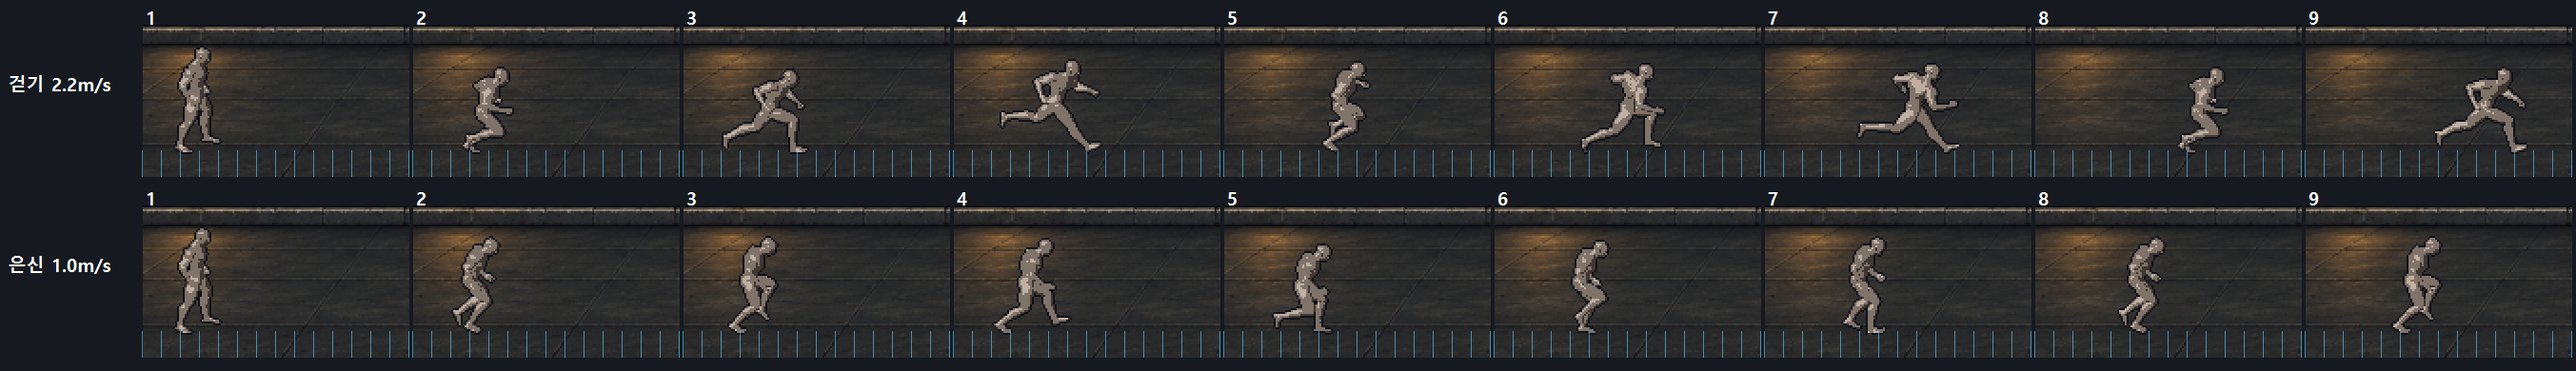
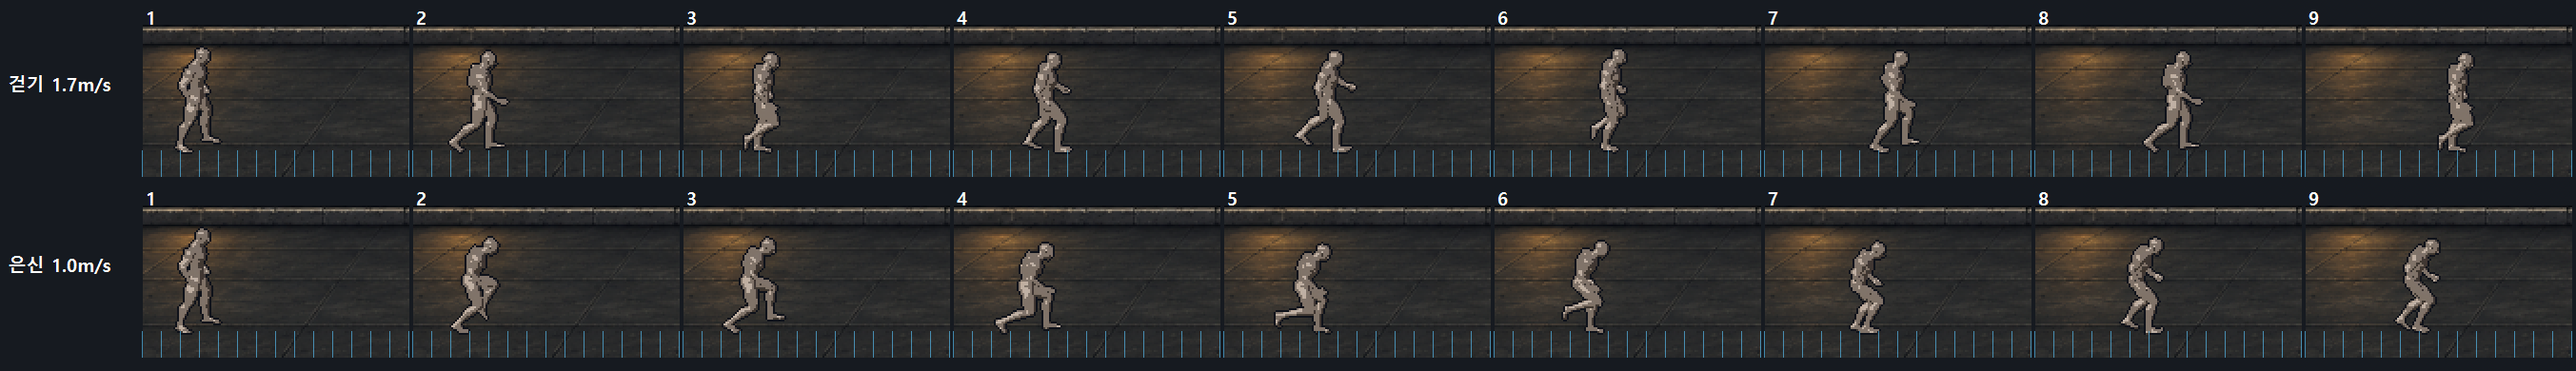
걷기 동작과 이동 거리를 다시 맞춤: 보폭 측정 오류 수정
- 보폭을 땅에 닿은 발이 미끄러지는 속도로 다시 잼(가볍게 뛰기는 실제 약 6m/s 달리기였음)
- 걷기를 Walk_Loop로 되돌려 1.7m/s, 은신 1.0m/s, 전투 2.0m/s, 피폭체 추격 비율 맞춤
- 그림 축척(30px/m)과 게임 축척(32px/m) 차이를 SheetLook에서 보정
- 렌더 스크립트가 소수 프레임까지 고르게 찍고, 걷기·은신을 12칸으로
- 피드백 문서에 원인과 점검표 항목(움직임은 숫자로, 측정 방법 점검) 추가, PRD·PLAN·작업 기준 기록

diff --git a/src/character_look.py b/src/character_look.py
@@ -22,6 +22,8 @@ from pathlib import Path
 
 import pico2d
 
+from nav import PX_PER_M_X
+
 
 LOOPING = {"idle", "walk", "sneak", "sneak_idle"}
 # A pose a character's sheets lack falls back to a close one: (pose, fixed frame or None).
@@ -30,6 +32,7 @@ FALLBACK = {"sneak_idle": ("sneak", 0)}
 
 class SheetLook:
     CELL_W, CELL_H = 96, 64
+    SPRITE_PX_PER_M = 54 / 1.8       # render scale: a 1.8 m person is 54 px (CHARACTER_SPEC.md)
     FEET_FROM_BOTTOM = 4
     # Seconds per frame for looping poses.
     # Seconds per frame for looping poses that are not driven by distance (breathing idles).
@@ -51,7 +54,10 @@ class SheetLook:
         count = self.frame_count(pose)
         stride = self.meta.get(pose, {}).get("stride_m")
         if stride and distance is not None:
-            return int(distance / stride * count) % count
+            # stride_m is measured on the model; the world uses PX_PER_M_X, the sheet its own
+            # scale, so compare in pixels to keep the planted foot exactly still.
+            cycles = distance * PX_PER_M_X / (stride * self.SPRITE_PX_PER_M)
+            return int(cycles * count) % count
         if pose in LOOPING:
             return int(time / self.FRAME_TIME.get(pose, 0.12)) % count
         impact = self.meta.get(pose, {}).get("impact")

diff --git a/tools/blender/render_sprites.py b/tools/blender/render_sprites.py
@@ -200,7 +200,8 @@ def frames_of(action, count, frame_range=None):
         step = (end - start) / count                     # loop: the last frame equals the first
     else:
         step = (end - start) / (count - 1)               # one-shot or a cut: keep the final pose
-    return [round(start + i * step) for i in range(count)]
+    # Keep fractions: evenly spaced cells matter for walk cycles (the feet stay planted).
+    return [round(start + i * step, 3) for i in range(count)]
 
 
 def assign_action(armature, action, blend=None):
@@ -303,7 +304,7 @@ def render_sheet(scene, armature, segments, out_dir, tmp_dir, sheet_name, args):
             action, _, blend, _ = segments[seg_index]
             assign_action(armature, action, blend)
             current = seg_index
-        scene.frame_set(frame)
+        scene.frame_set(int(frame), subframe=frame - int(frame))
         path = os.path.join(tmp_dir, f"{sheet_name}_{index}.png")
         scene.render.filepath = path
         bpy.ops.render.render(write_still=True)

diff --git a/src/player.py b/src/player.py
@@ -17,9 +17,10 @@ from nav import PX_PER_M_X, metres
 
 
 PLAYER_HALF_SIZE = 11
-# The walk sheet is a light jog covering 1.48 m per leg cycle and the sneak sheet 0.65 m,
-# so these speeds give about 1.5 leg cycles per second with the feet planted.
-WALK_SPEED_M = 2.2           # metres per second
+# Leg cycles cover 1.30 m (walk) and 1.09 m (sneak) of ground, measured from how fast the
+# planted foot slides back in Blender. At these speeds the legs play 1.7x and 1.2x as fast
+# as authored: a brisk walk and a careful sneak, both still natural, feet planted.
+WALK_SPEED_M = 1.7           # metres per second
 SNEAK_SPEED_M = 1.0
 DASH_SPEED = 340
 DASH_DURATION = 0.14

diff --git a/src/zombie.py b/src/zombie.py
@@ -18,7 +18,7 @@ from tile_map import WRECK_HALF_DEPTH, WRECK_LEFT, WRECK_RIGHT, WRECK_Y
 
 ZOMBIE_RADIUS = 10
 ALERT_DISTANCE = 128
-CHASE_SPEED = 49              # px/s, about 70% of the player's walk (2.2 m/s = 70 px/s)
+CHASE_SPEED = 38              # px/s, about 70% of the player's walk (1.7 m/s = 54 px/s)
 ATTACK_REACH = 27
 ATTACK_DEPTH = 15
 WINDUP_TIME = 0.38

diff --git a/src/combat.py b/src/combat.py
@@ -13,7 +13,7 @@ from zombie import STRIKE_TIME, WINDUP_TIME
 
 
 BANNER_TIME = 1.4
-MOVE_SPEED_M = 3.0          # metres per second while walking (legs follow the distance)
+MOVE_SPEED_M = 2.0          # metres per second while walking (legs follow the distance)
 ENEMY_PAUSE = 0.45
 SKIP_PAUSE = 0.9
 POPUP_TIME = 1.3

diff --git a/assets/characters/CHARACTER_WORKFLOW.md b/assets/characters/CHARACTER_WORKFLOW.md
@@ -89,7 +89,7 @@
      --anim-file "assets/source3d/quaternius_animation_library/Unreal-Godot/UAL1_Standard.glb" \
      --out assets/characters/base \
      --map idle=Idle_Loop walk=Walk_Loop "sneak=Walk_Loop+Crouch_Idle_Loop*0.3" hurt=Hit_Chest down=Death01 pickup=Fixing_Kneeling@0-20 \
-     --frames-for idle=4 walk=8 sneak=6 swing=6 hurt=3 down=5 pickup=4 \
+     --frames-for idle=4 walk=12 sneak=12 swing=6 hurt=3 down=5 pickup=4 \
      --tilt 20 --head 1.15 --bulk 1.1 --legs 1.0 --shift-for down=16 \
      --flat 0.80,0.62,0.50 --bands 4 --outline
    ```
@@ -106,7 +106,7 @@
 4. **미리보기** — 보여 주기 전에 [그림 작업 피드백과 교훈](ART_FEEDBACK.md)의 점검표를 반드시 통과시킨다. `tools/sprites/preview_sheets.ps1 -SheetDir <시트 폴더> -Out assets/characters/previews/<대상>_v<번호>.png -Title <제목>`으로 만들고 사용자에게 보여 준다.
 5. **기준 확정** — 미리보기를 보고 렌더 설정을 조정해 4절에 적는다. 이후 모든 캐릭터는 같은 설정을 쓴다.
 6. **주인공 만들기** — 기본 몸에 방호복·후드·방독면·공기통·방망이를 입혀 `assets/characters/hero/`에 렌더한다.
-7. **게임 연결** — 실제 화면에서 크기·발 위치·재생 속도를 확인한다. 시트 폴더 이름만 넘기면 `src/character_look.py`의 `SheetLook`이 동작 이름(idle·walk·sneak·swing·pickup·hurt·down)과 시간으로 칸을 골라 그린다. 주인공은 `main.py`의 `PLAYER_LOOK`에 폴더 이름을 적는다. 반복 동작의 칸 시간은 `SheetLook.FRAME_TIME`, 초상화 자르기 영역은 `SheetLook.PORTRAIT`. 걷는 동작은 `look.json`에 다리 한 바퀴에 나아가는 거리(`stride_m`, 걷기(가볍게 뛰기) 1.48m·은신 0.65m)를 적는다. 그러면 시간 대신 유닛이 실제로 걸은 거리(`walk_distance`, m)로 칸을 골라 어떤 이동 속도에서도 발이 미끄러지지 않는다. 보폭은 Blender에서 발이 땅에 닿아 있는 동안 움직인 거리 ×2로 잰다. 공격 동작은 시트 폴더의 `look.json`에 맞는 칸을 적는다(예: `{"swing": {"impact": 3}}`). 공격 객체가 판정 시점(`contact`, 0~1)을 알려 주면, 그 전에는 준비 칸들이, 판정 순간에는 맞는 칸이(히트스톱 동안 유지), 그 뒤에는 나머지 칸이 재생된다. 새 무기나 적의 공격도 맞는 칸만 적으면 같은 방식으로 맞춰진다.
+7. **게임 연결** — 실제 화면에서 크기·발 위치·재생 속도를 확인한다. 시트 폴더 이름만 넘기면 `src/character_look.py`의 `SheetLook`이 동작 이름(idle·walk·sneak·swing·pickup·hurt·down)과 시간으로 칸을 골라 그린다. 주인공은 `main.py`의 `PLAYER_LOOK`에 폴더 이름을 적는다. 반복 동작의 칸 시간은 `SheetLook.FRAME_TIME`, 초상화 자르기 영역은 `SheetLook.PORTRAIT`. 걷는 동작은 `look.json`에 다리 한 바퀴에 나아가는 거리(`stride_m`, 모델 기준 m: 걷기 1.30m·은신 1.09m)를 적는다. 그러면 시간 대신 유닛이 실제로 걸은 거리(`walk_distance`, m)로 칸을 골라 어떤 이동 속도에서도 발이 미끄러지지 않는다. 보폭은 Blender에서 root를 고정하고 **땅에 닿은 발이 뒤로 미끄러지는 속도 × 한 바퀴 시간**으로 잰다(닿아 있는 동안 움직인 거리로 재면 공중 구간이 있는 뛰기에서 크게 틀림). 모델 기준 m라서 그림 축척(1m=30px)과 게임 축척(1m=32px) 차이는 `SheetLook`이 바꿔 준다. 칸은 소수 프레임까지 고르게 찍는다(정수로 반올림하면 칸 간격이 들쭉날쭉해 발이 흔들림). 공격 동작은 시트 폴더의 `look.json`에 맞는 칸을 적는다(예: `{"swing": {"impact": 3}}`). 공격 객체가 판정 시점(`contact`, 0~1)을 알려 주면, 그 전에는 준비 칸들이, 판정 순간에는 맞는 칸이(히트스톱 동안 유지), 그 뒤에는 나머지 칸이 재생된다. 새 무기나 적의 공격도 맞는 칸만 적으면 같은 방식으로 맞춰진다.
 8. **변형 캐릭터** — 1절 특색 기준표를 채워 설계한 뒤 같은 방식으로 렌더한다.
 9. **기록** — 매 단계 결과·결정·문제를 6절 작업 기록에 남기고 커밋한다.
 
@@ -115,8 +115,8 @@
 | 게임 동작 | 사용 애니메이션 | 칸 수 | 메모 |
 | --- | --- | --- | --- |
 | idle | `Idle_Loop` | 4 | |
-| walk | `Jog_Fwd_Loop` | 8 | 2026-11-11부터. 이동 2.2m/s에 걷기 동작(보폭 1.22m)을 쓰면 다리가 너무 바빠져, 보폭이 넓은(1.48m) 가볍게 뛰기로 바꿈 |
-| sneak | `Walk_Loop` 위에 `Crouch_Idle_Loop`를 30% 얹음(`Walk_Loop+Crouch_Idle_Loop*0.3`) | 6 | 2026-11-11 30%로 조정(처음 40%). 1.0m/s에 맞게 보폭을 넓힘(0.57→0.65m). 섞을 때는 COMBINE(회전을 곱해 더함)을 써야 함. 단순 평균(REPLACE)은 다리가 뒤로 뒤집힘 |
+| walk | `Walk_Loop` | 12 | 2026-11-11 가볍게 뛰기(`Jog_Fwd_Loop`)를 잠깐 썼으나 실제로 약 6m/s 달리기 동작이라 걷기로 되돌림. 1.7m/s에서 원본의 1.7배 속도로 재생. 8→12칸으로 늘려 땅에 닿은 발이 덜 밀림 |
+| sneak | `Walk_Loop` 위에 `Crouch_Idle_Loop`를 30% 얹음(`Walk_Loop+Crouch_Idle_Loop*0.3`) | 12 | 2026-11-11 30%로 조정(처음 40%), 6→12칸. 섞을 때는 COMBINE(회전을 곱해 더함)을 써야 함. 단순 평균(REPLACE)은 다리가 뒤로 뒤집힘 |
 | swing | `Sword_Regular_A` 6칸 + 복귀 `Sword_Regular_A_Rec` 7~23프레임 3칸 (두 번째 팩 UAL2) | 9 | 사용자 결정 "칼 베기 A + 맞는 칸 맞추기 + 복귀"(2026-11-11). 크게 숙였다가 베어 올린 뒤 제자리로 돌아옴. 맞는 칸은 4번째 칸(인덱스 3)이고 `base/look.json`에 적음. 이전 후보 나무 베기는 `TreeChopping_Loop@0-20` |
 | sneak_idle | `Idle_Loop` 위에 `Crouch_Idle_Loop`를 40% 얹음 | 4 | Shift만 누르고 서 있을 때. 시트가 없는 캐릭터는 `sneak` 첫 칸으로 대신함(`character_look.FALLBACK`) |
 | hurt | `Hit_Chest` | 3 | |
@@ -169,3 +169,4 @@
 | 2026-11-11 | 사용자 결정 "진행"(칼 베기 A + 맞는 칸 맞추기 + 복귀 동작) | 렌더 스크립트에 동작 이어 붙이기와 root 고정 추가. 공용 맞는 칸 방식(`look.json`의 `impact`, 공격의 `contact`) 추가. 판정 순간에 베는 칸이 보이고 히트스톱 동안 유지됨을 게임 화면으로 확인(`previews/swing_impact_ingame.png`). 중간에 점검표에서 "끝나면 30픽셀 앞에서 끝나 뒤로 튐"을 발견해 root 고정으로 해결. 남은 점: 빨간 궤적선은 예전 주인공 기준이라 따라 휘두르는 칸에서 몸 뒤쪽에 그려짐 |
 | 2026-11-11 | 사용자 지시 "애니메이션이 빠르다", 선택 "느긋한 걸음, 이동 속도도 낮춤" | 원본 동작 보폭 측정(걷기 한 바퀴 1.22m/1.33초, 은신 0.57m). 걷기 1.2m/s·은신 0.55m/s로 낮추고 다리를 걸은 거리로 재생. 서 있기 칸 시간 0.22→0.55초, 제자리 은신 0.6초. 휘두르기 판정 0.20→0.30초(준비 길게). 게임 화면 `previews/walk_feet_ingame.png`(파란 눈금으로 발이 땅에 붙는지 확인) |
 | 2026-11-11 | 사용자 지시 "이동 속도가 너무 느리다, 올리고 동작도 자연스럽게" | 걷기 2.2m/s·은신 1.0m/s·전투 3.0m/s. 걷기 시트를 `Jog_Fwd_Loop`로, 은신·제자리 은신을 웅크림 30%로 다시 렌더. 다리 한 바퀴 약 0.67초(원본의 1.4배)로 자연스러운 범위. 게임 화면 `previews/walk_feet_ingame.png` 갱신 |
+| 2026-11-11 | 사용자 지적 "동작은 뛰어가는 것처럼 크게 걷는데 이동 거리는 작다" | 원인: 보폭을 "땅에 닿아 있는 동안 움직인 거리"로 재서, 공중 구간이 긴 뛰기의 보폭(실제 한 바퀴 5.4m, 약 6m/s)을 1.48m로 잘못 잼. 땅에 닿은 발이 미끄러지는 속도로 다시 잼(걷기 1.30m, 은신 30% 1.09m). 걷기 동작으로 되돌리고 1.7m/s·은신 1.0m/s·전투 2.0m/s. 그림·게임 축척 차이(30/32px) 보정, 소수 프레임 렌더, 걷기·은신 12칸. 1/60초마다 땅에 닿은 발 픽셀을 재서 같은 자리 ±3px 안에 머무는 것을 확인 |

diff --git a/assets/characters/ART_FEEDBACK.md b/assets/characters/ART_FEEDBACK.md
@@ -16,6 +16,7 @@ Claude가 만든 그림(캐릭터, 배경, UI 등)을 사용자가 보고 이상
 | 2026-11-10 | 은신 = `Crouch_Fwd_Loop` | "은신 자세도 존나 이상함" | 무료 팩의 웅크려 걷기가 거의 쪼그려 앉은 깊은 자세. 큰 머리·굵은 몸까지 더해져 괴물처럼 보임 | v4b: 걷기 위에 웅크려 서기를 40% 얹어(COMBINE) 몸만 낮춘 걷기를 만듦. 사용자 선택 | 동작 이름만 보고 고르지 않는다. 게임에서 그 동작이 '무엇으로 읽혀야 하는지'와 비교한다(→ 3-4) |
 | 2026-11-11 | v4 휘두르기 = `Sword_Attack` | (점검표에서 스스로 발견) 팔을 양옆으로 벌리고 뛰어드는 칼 동작 | 1팩에 방망이 동작이 없음 | 두 번째 무료 팩에서 후보 5종을 렌더해 비교, 나무 베기(양손)로 교체 | 필요한 동작이 없으면 억지로 맞추지 말고 다른 무료 팩부터 찾는다(→ 3-4) |
 | 2026-11-11 | 칼 베기 A 적용 | "타격감이 좋으면 좋겠다" | 판정은 공격 시간 41%에 나는데 그때 그림은 아직 숙이는 칸이었음. 마지막 칸이 넓은 자세로 끝나 서 있기로 툭 바뀜. 원본 동작의 앞으로 나가는 이동 때문에 끝 위치가 30픽셀 앞 | 맞는 칸을 판정 순간에 맞추는 공용 방식, 복귀 동작 이어 붙이기, root 고정 | 타격감은 그림 자체보다 맞는 순간·여운·제자리 복귀가 맞아야 산다(→ 3-8, 3-9) |
+| 2026-11-11 | 걷기를 가볍게 뛰기 동작 + 2.2m/s로 바꿈 | "동작은 뛰어가는 것처럼 크게 걷는데 이동 거리는 작다" | 보폭 측정 방법이 틀림(땅에 닿은 동안 움직인 거리만 잼 → 공중 구간이 긴 뛰기를 1/4로 잼). 1/8초 간격 그림만 보고 "발이 붙어 있다"고 판단함 | 땅에 닿은 발의 미끄러지는 속도로 다시 재고, 1/60초마다 발 픽셀 위치를 숫자로 확인 | 움직임은 눈대중 대신 숫자로 확인한다. 측정 방법이 다른 동작 종류(걷기·뛰기)에도 맞는지 먼저 따진다(→ 3-11) |
 | 2026-11-10 | 위 결과들을 그대로 보여 줌 | "너 미적 감각이 떨어지니?" | 결과를 내 기준(칸 안에 들어감, 바닥에 닿음 등 기술 기준)으로만 점검하고, 보기에 어떤지는 점검하지 않음 | 이 문서와 점검표를 만들고, 보여 주기 전에 반드시 통과시키기로 함 | 기술 점검과 별개로 '보기 점검'을 한다(→ 3절 전체) |
 
 ## 2. 왜 문제가 생겼고, 왜 Claude가 몰랐나 (2026-11-10 분석)
@@ -52,4 +53,6 @@ Claude가 만든 그림(캐릭터, 배경, UI 등)을 사용자가 보고 이상
 7. **게임 화면에서 한 번 더** — 시트만 보지 말고 실제 게임 화면 캡처로 확인한다.
 8. **제자리인가** — 공격·피격처럼 한 번 재생하는 동작은 첫 칸과 마지막 칸의 위치가 같은지 본다. 원본 동작에 이동이 들어 있으면 끝난 뒤 툭 튄다(root 고정으로 해결).
 9. **맞는 순간이 맞는가** — 공격은 판정이 나는 순간 화면에 베는(맞는) 칸이 보이는지 게임 화면으로 확인한다.
-10. **솔직하게 보고** — 이상한 점이 남아 있으면 "좋아졌다"고 하지 말고, 남은 문제를 먼저 말한다.
+10. **움직임은 숫자로** — 걷기·뛰기처럼 이동하는 동작은 1/60초마다 땅에 닿은 발의 위치를 재서 같은 자리에 머무는지 확인한다. 띄엄띄엄 찍은 그림만 보고 판단하지 않는다.
+11. **측정 방법 점검** — 보폭·속도 같은 값을 잴 때, 그 방법이 다른 종류의 동작(걷기와 뛰기 등)에도 맞는지 먼저 따진다.
+12. **솔직하게 보고** — 이상한 점이 남아 있으면 "좋아졌다"고 하지 말고, 남은 문제를 먼저 말한다.

diff --git a/PLAN.md b/PLAN.md
@@ -101,6 +101,8 @@
 
 - **2026-11-11 · 이동 속도를 다시 올리고 동작을 맞춤** — "이동 속도가 너무 느리다. 은신 상태도 너무 느림. 이동 속도를 올리고 그에 맞게 애니메이션 동작도 자연스럽게 맞춰." 걷기 2.2m/s(동작은 가볍게 뛰기), 은신 1.0m/s(웅크림 30%), 전투 이동 3.0m/s.
 
+- **2026-11-11 · 걷기 동작과 이동 거리 다시 맞춤** — "걷기가 좀 이상합니다. 애니메이션 동작은 뛰어가는 것처럼 크게 걷는데 그에 비해서 이동되는 거리는 작습니다. 다시 확인해서 적절하게 수정하세요." 보폭 측정 오류(뛰기의 공중 구간을 놓침)를 고쳐 다시 재고, 걷기 동작 1.7m/s·은신 1.0m/s·전투 2.0m/s로 맞춤. 걷기·은신 시트를 12칸으로 늘림.
+
 ## Gemini와의 작업 분담
 
 - 이미지 후보 생성이나 서로 독립적인 초안 작업은 Gemini API에 맡길 수 있다. 예를 들어 NPC 스프라이트와 아이템 아이콘은 각각 규격을 정해 병렬로 요청한다. 같은 동작의 연속 프레임은 한 시트로 요청해 일관성을 맞춘다.
